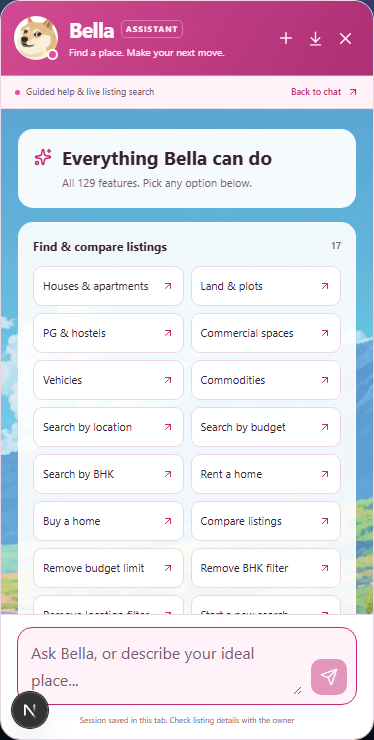
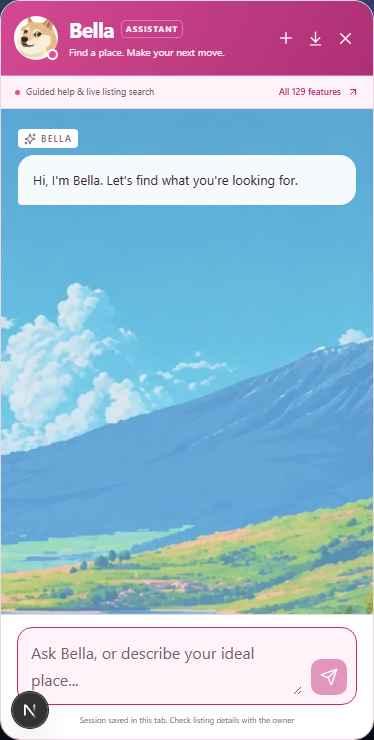
Keep Bella discreet with a compact chat and on-demand feature menu

diff --git a/src/components/assistants/bella-chat.css b/src/components/assistants/bella-chat.css
@@ -30,16 +30,16 @@
 }
 .bella-launcher {
   position: fixed;
-  right: 90px;
+  right: 24px;
   bottom: 28px;
   z-index: 50;
   display: flex;
   align-items: center;
-  width: 62px;
-  height: 62px;
+  width: 52px;
+  height: 52px;
   justify-content: center;
   padding: 3px;
-  border: 3px solid #f4b1d1;
+  border: 2px solid #f4b1d1;
   border-radius: 99px;
   color: var(--bella-ink);
   background: var(--bella-bg);
@@ -60,18 +60,18 @@
 }
 .bella-launcher-avatar img {
   object-fit: cover;
-  width: 50px;
-  height: 50px;
+  width: 42px;
+  height: 42px;
 }
 .bella-panel {
   position: fixed;
-  right: 82px;
+  right: 24px;
   bottom: 24px;
   z-index: 60;
   display: flex;
   flex-direction: column;
-  width: min(460px, calc(100vw - 32px));
-  height: min(760px, calc(100dvh - 48px));
+  width: min(390px, calc(100vw - 32px));
+  height: min(560px, calc(100dvh - 48px));
   background:
     linear-gradient(#ffffff12, #ffffff12),
     url("/bella-bg.png") center / cover;
@@ -85,6 +85,7 @@
   isolation: isolate;
 }
 .bella-expanded {
+  height: min(760px, calc(100dvh - 48px));
   width: min(740px, calc(100vw - 110px));
 }
 .bella-header {
@@ -587,6 +588,7 @@
 @media (max-width: 639px) {
   .bella-panel,
   .bella-panel.bella-expanded {
+  height: min(760px, calc(100dvh - 48px));
     right: 8px;
     bottom: max(8px, env(safe-area-inset-bottom));
     width: calc(100vw - 16px);
@@ -603,18 +605,18 @@
     display: none !important;
   }
   .bella-launcher {
-    bottom: 90px;
+    bottom: max(20px, env(safe-area-inset-bottom));
     right: 16px;
-    width: 54px;
-    height: 54px;
+    width: 48px;
+    height: 48px;
     padding: 3px;
   }
   .bella-launcher small {
     display: none;
   }
   .bella-launcher-avatar img {
-    width: 42px;
-    height: 42px;
+    width: 38px;
+    height: 38px;
   }
   .bella-intro h3 {
     font-size: 29px;

diff --git a/src/components/assistants/bella-chat.tsx b/src/components/assistants/bella-chat.tsx
@@ -90,7 +90,7 @@ function messageContent(text: string) {
 export function BellaChat() {
   const [open, setOpen] = useState(false);
   const [expanded, setExpanded] = useState(false);
-  const [showFeatures, setShowFeatures] = useState(true);
+  const [showFeatures, setShowFeatures] = useState(false);
   const [messages, setMessages] = useState<Message[]>(initialMessages);
   const [input, setInput] = useState("");
   const [busy, setBusy] = useState(false);
@@ -206,7 +206,7 @@ export function BellaChat() {
     busyRef.current = false;
     setBusy(false);
     setMessages(initialMessages());
-    setShowFeatures(true);
+    setShowFeatures(false);
     setFilters({});
     filtersRef.current = {};
     setShortlist([]);
@@ -485,7 +485,7 @@ export function BellaChat() {
         title="Open Bella"
         aria-expanded={open}
         aria-controls="bella-panel"
-        onClick={() => setOpen((value) => !value)}
+        onClick={() => { setShowFeatures(false); setOpen(value => !value); }}
         hidden={open}
       >
         <span className="bella-launcher-avatar">

diff --git a/tests/bella-experience.spec.ts b/tests/bella-experience.spec.ts
@@ -35,6 +35,8 @@ test("desktop: commands, language history, draft, export and reset", async ({
   test.setTimeout(180000);
   await page.setViewportSize({ width: 1440, height: 1000 });
   await openBella(page);
+  await expect(page.getByRole("heading", { name: "Everything Bella can do" })).toBeHidden();
+  await page.getByRole("button", { name: /All \d+ features/ }).click();
   await expect(
     page.getByRole("heading", { name: "Everything Bella can do" }),
   ).toBeVisible();

diff --git a/docs/bella-improvements.md b/docs/bella-improvements.md
@@ -1,6 +1,6 @@
 # Bella assistant
 
-Bella uses its original sunflower-and-mountain wallpaper with pink accents and readable message bubbles. Its floating launcher shows only the round Bella avatar. The bubble opens a complete, scrollable feature directory grouped by search, listing help, all 22 calculators and converters, appearance, languages, notification preferences, glossary, support, navigation and conversation tools. Every group is expanded, and the full directory stays accessible from the chat header. Desktop expansion and the mobile layout remain available.
+Bella uses its original sunflower-and-mountain wallpaper with pink accents and readable message bubbles. Its floating launcher shows only the round Bella avatar. The compact chat opens with a welcome message. An All features button inside the bubble opens a complete, scrollable feature directory grouped by search, listing help, all 22 calculators and converters, appearance, languages, notification preferences, glossary, support, navigation and conversation tools. Every group is expanded, and the full directory stays accessible from the chat header. Desktop expansion and the mobile layout remain available.
 
 ## Features
 
